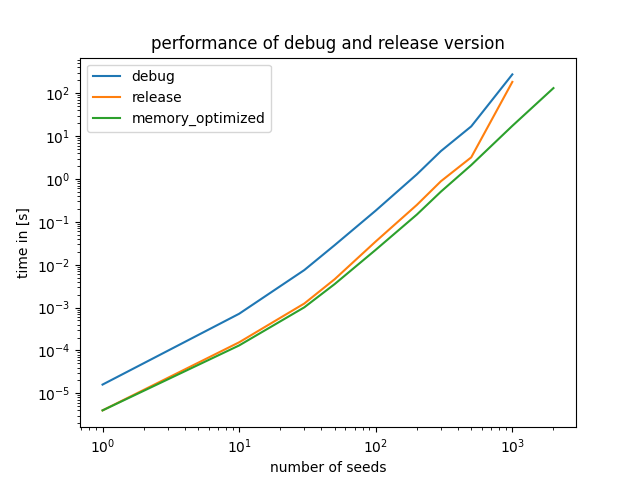
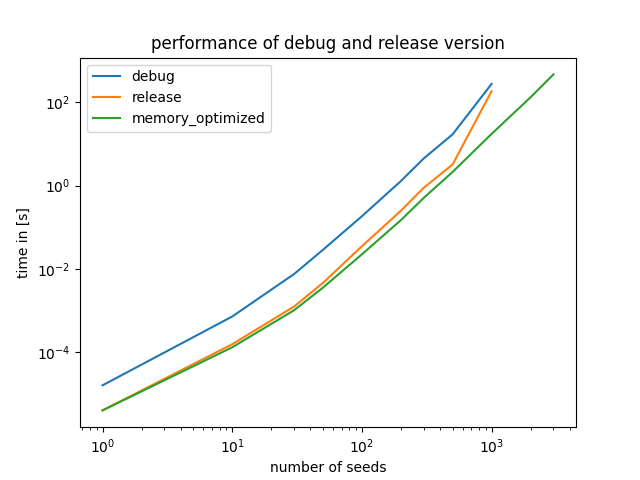
some further benchmarking

diff --git a/main.cpp b/main.cpp
@@ -123,6 +123,8 @@ void do_benchmarking(string output_file, vector<int> seedvalues, bool append) {
 
         // output the duration in microseconds
         cout << "Seeds: " << N_seeds << "  Execution time: " << duration.count() << " microseconds" << endl;
+
+        vmesh.save_mesh_to_files(0);
     }
 
     timing_list.close();
@@ -182,7 +184,7 @@ int main () {
     //seedvals.push_back(300);
     //seedvals.push_back(500);
     //seedvals.push_back(1000);
-    seedvals.push_back(2000);
+    seedvals.push_back(3000);
 
     // name output file
     string output = "times_release_memory_opt.csv";
